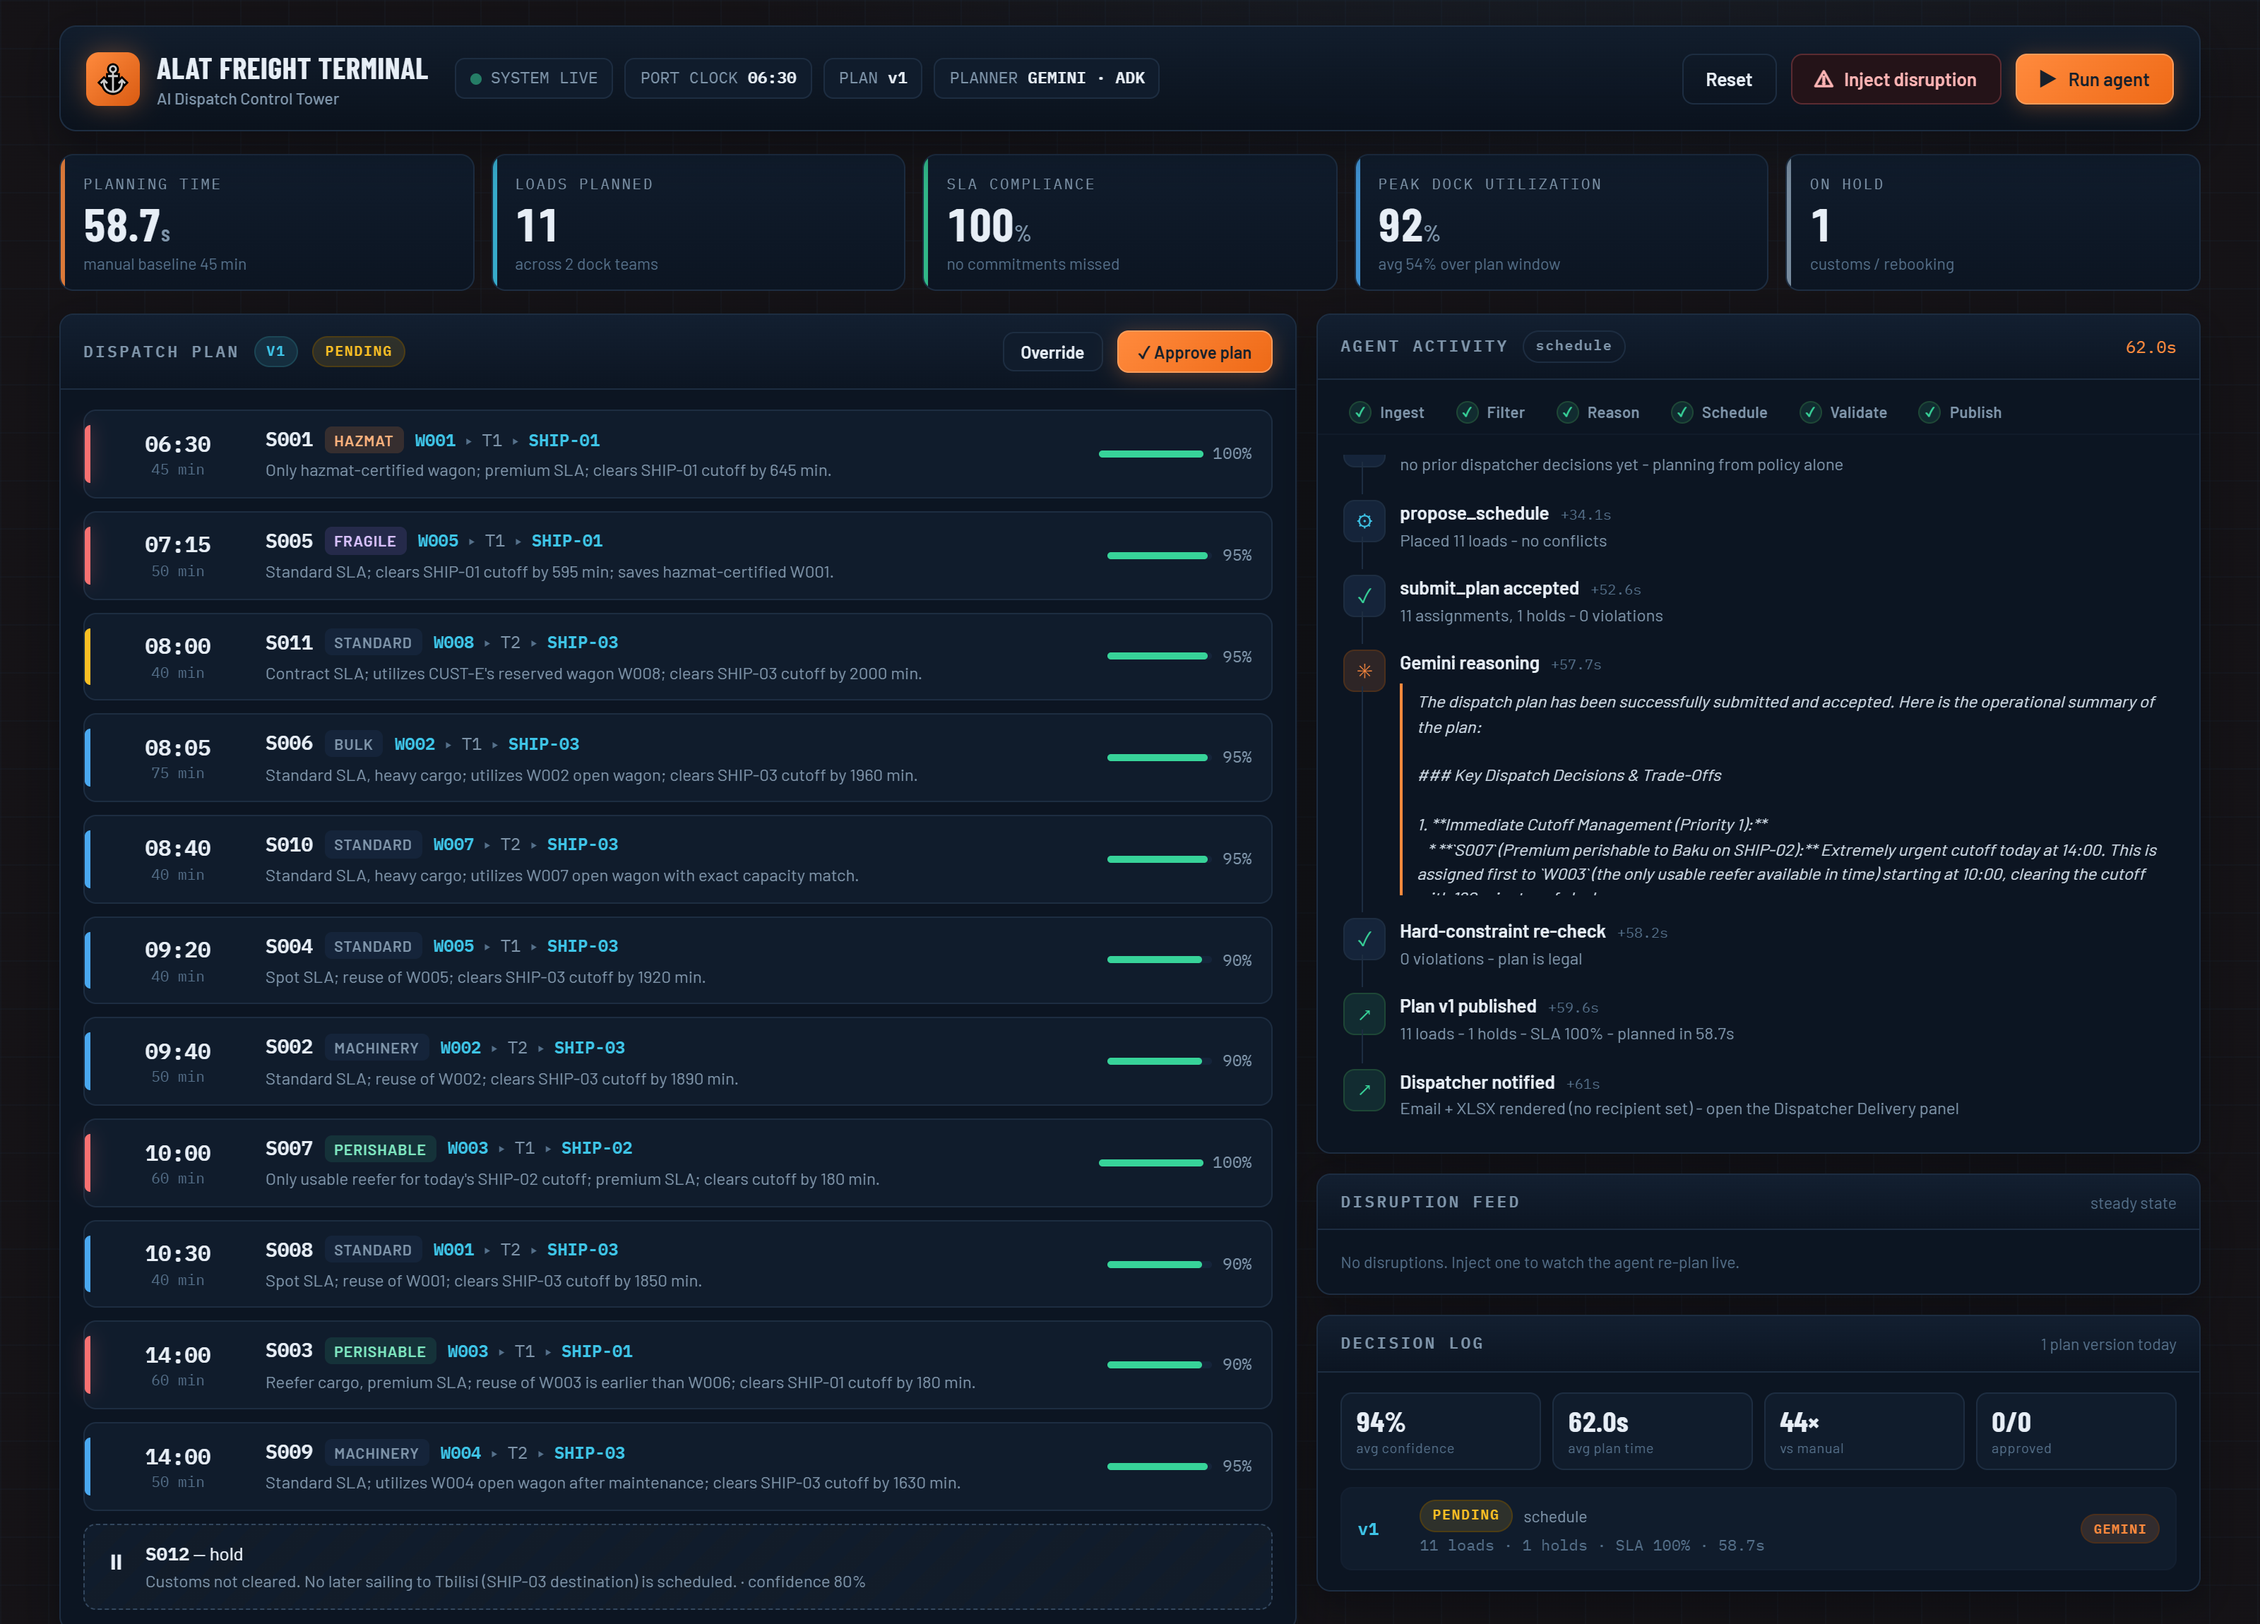
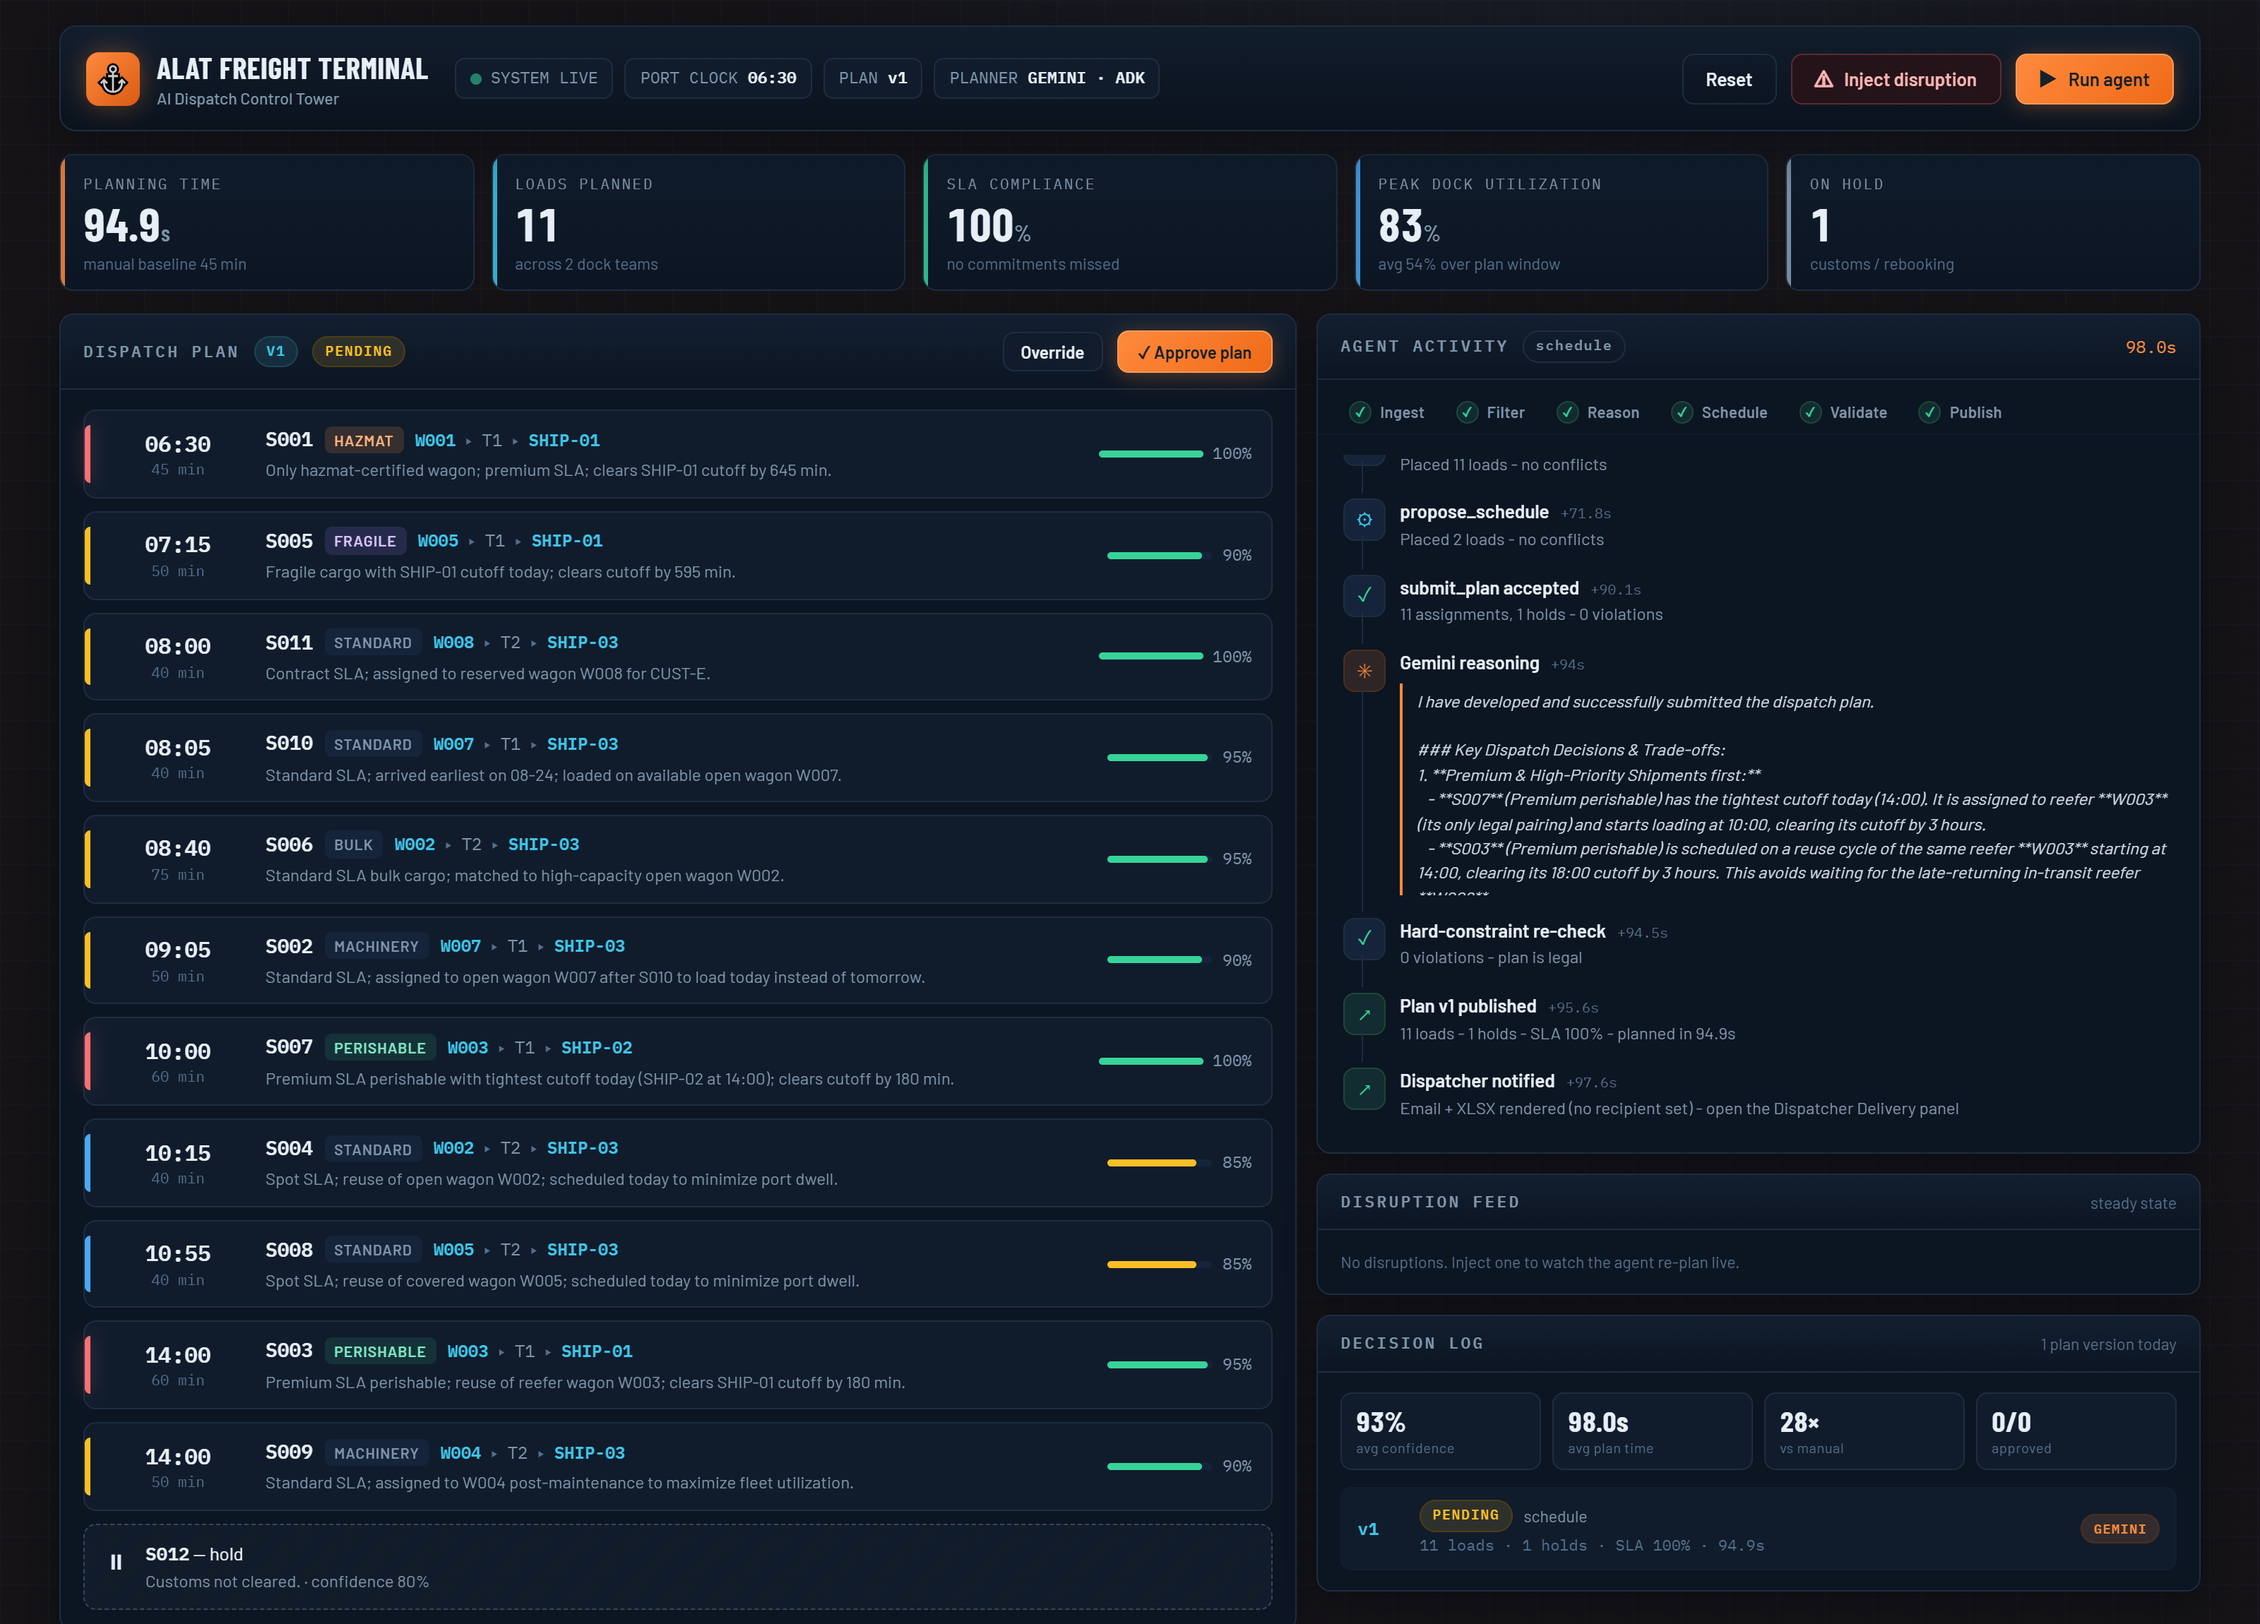
Polished submission image gallery (7 shots) + refreshed hero
All captured live from the deployed Cloud Run service (real gemini-3.5-flash
via Google ADK), sticky header neutralised, each panel a clean element shot:
- 01 dispatch plan (hero, 3:2), 02 agent reasoning + pipeline stepper,
  03 cargo routing Sankey, 04 disruption diff, 05 dock Gantt with ghost slots,
  06 decision log, 07 re-plan board
- docs/gallery/README.md: Devpost upload order + ready captions
- refreshed docs/dashboard.png hero (clean, Gemma disabled)

diff --git a/docs/gallery/README.md b/docs/gallery/README.md
@@ -1,0 +1,20 @@
+# Submission image gallery
+
+Captured live from the deployed Cloud Run service — every image shows the real
+`gemini-3.5-flash via Google ADK` planner. Upload to the Devpost **Image gallery**
+in this order (the first image is the cover). Suggested captions included.
+
+| # | File | Caption for Devpost |
+|---|------|---------------------|
+| 1 | `01-dispatch-plan.png` | **The control tower** — Gemini plans 11 loads at 100% SLA in ~90s, a reason and confidence on every assignment, with the agent's tool calls and reasoning streaming live. |
+| 2 | `04-disruption-diff.png` | **Live disruption recovery** — when reefer W003 breaks down mid-shift, the agent re-plans only what's affected: S003 moved to the other reefer, S007 rebooked to the next sailing, 4 loads already completed. |
+| 3 | `05-dock-gantt.png` | **Dock schedule** — two dock-team lanes with the 09:30 port-clock line; dashed "pre-disruption" ghosts show exactly what the agent re-routed after the breakdown. |
+| 4 | `02-agent-reasoning.png` | **Real agentic reasoning** — the ingest → filter → reason → schedule → validate → publish pipeline, with Gemini's own trade-off explanation (scarce reefer reused across two shipments instead of waiting for the late one). |
+| 5 | `03-routing-map.png` | **Cargo routing** — shipment → wagon → vessel, priority-coloured; the customs-blocked S012 is held in the yard. |
+| 6 | `07-replan-board.png` | **Plan v2 after recovery** — the updated board: completed loads marked, the moved and rebooked shipments highlighted. |
+| 7 | `06-decision-log.png` | **Decision log** — every plan version, the human's approve/override, and the running scorecard (avg confidence, plan time, speed-up vs manual). |
+
+Notes:
+- All are PNG, well under Devpost's 5 MB limit; the cover (`01`) is a clean 3:2.
+- Planning time varies run to run (~60–95 s of real Gemini reasoning) — the numbers are live, not staged.
+- Regenerate any time from the deployed service with the capture scripts (see the repo's demo notes); nothing here is hand-edited.
